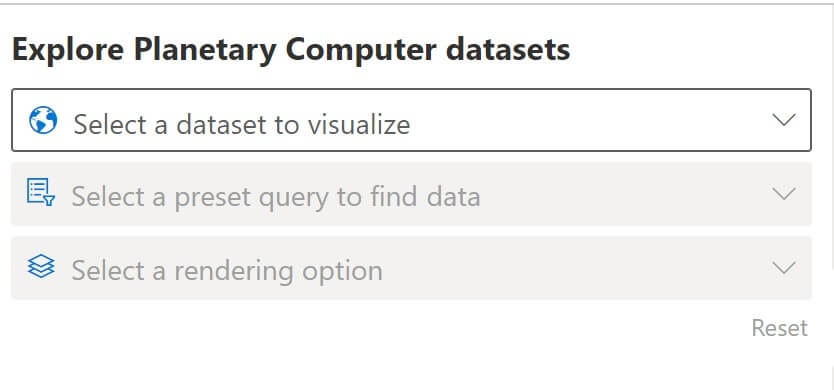
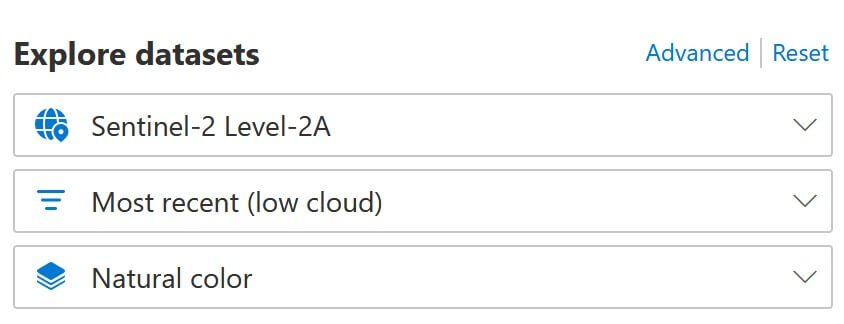
Update explorer docs

diff --git a/docs/overview/explorer.md b/docs/overview/explorer.md
@@ -1,7 +1,7 @@
 # Planetary Computer Explorer
 
 ```{image} images/explorer-docs.jpg
-:height: 500
+:height: 550
 :name: Planetary Computer Explorer screenshot
 :class: no-scaled-link
 ```
@@ -90,6 +90,30 @@ to direct you to the valid extent.
 :class: no-scaled-link
 ```
 
+### Custom filters
+
+Each dataset is preconfigured with a set of filters that can be used to find
+representative items in a dataset quickly. The Explorer also has an Advanced mode
+that allows you to customize the filters for your query. To activate Advanced mode, simply select the dataset you're interested in and click the "Advanced" link.
+
+```{image} images/explorer-advanced.jpg
+:width: 400
+:name: Planetary Computer Explorer advanced mode
+:class: no-scaled-link
+```
+
+The custom filter will start with a date-range filter by default, but you can
+click the "Select filters" link to select any number of attributes on the
+dataset to use in a custom filter. Selected attributes will be displayed in a
+custom control relevant to its data type to help ensure that your filter is
+valid and will return results.
+
+```{image} images/explorer-advanced-filters.jpg
+:width: 500
+:name: Planetary Computer Explorer advanced filters
+:class: no-scaled-link
+```
+
 ### Rendering options
 
 The Explorer is pre-configured with appropriate rendering options for each asset
@@ -104,6 +128,23 @@ selected rendering option, click the info button next to the search results.
 ```{image} images/explorer-queryinfo.png
 :height: 500
 :name: Planetary Computer Explorer query info
+:class: no-scaled-link
+```
+
+#### Legends
+
+If the selected rendering option represents a categorical or continuous variable,
+a legend will appear showing the color map and value range, or the categories and their respective colors on the map.
+
+```{image} images/explorer-legend.jpg
+:height: 100
+:name: Planetary Computer Explorer legend
+:class: no-scaled-link
+```
+
+```{image} images/explorer-legend-class.jpg
+:height: 200
+:name: Planetary Computer Explorer classmap legend
 :class: no-scaled-link
 ```
 
@@ -138,16 +179,14 @@ our [data access documentation][pc-docs-sas] for more details.
 
 ## Coming soon
 
-This is just the initial release of the Explorer. Upcoming features include:
+We're constantly adding improvements to the Planetary Computer and the Explorer. Upcoming features include:
 
-- Legends for scaled and categorical data
-- Fully customizable query parameters, including date range, cloud cover, and other attributes
 - Visualization support for Zarr-backed datasets
 - Hub integration to build queries and visualize search results within a notebook
 - Loading multiple dataset search results as map layers
+- Layer comparison features
 
-Watch for future announcements, and please [get in
-touch](mailto:planetarycomputer@microsoft.com) with feedback or questions.
+Watch for future announcements, and [visit our GitHub Discussions](https://github.com/microsoft/PlanetaryComputer/discussions) for feedback or questions.
 
 [1]: https://planetarycomputer.microsoft.com/explore
 [pc-docs-hub]: https://planetarycomputer.microsoft.com/docs/overview/environment
